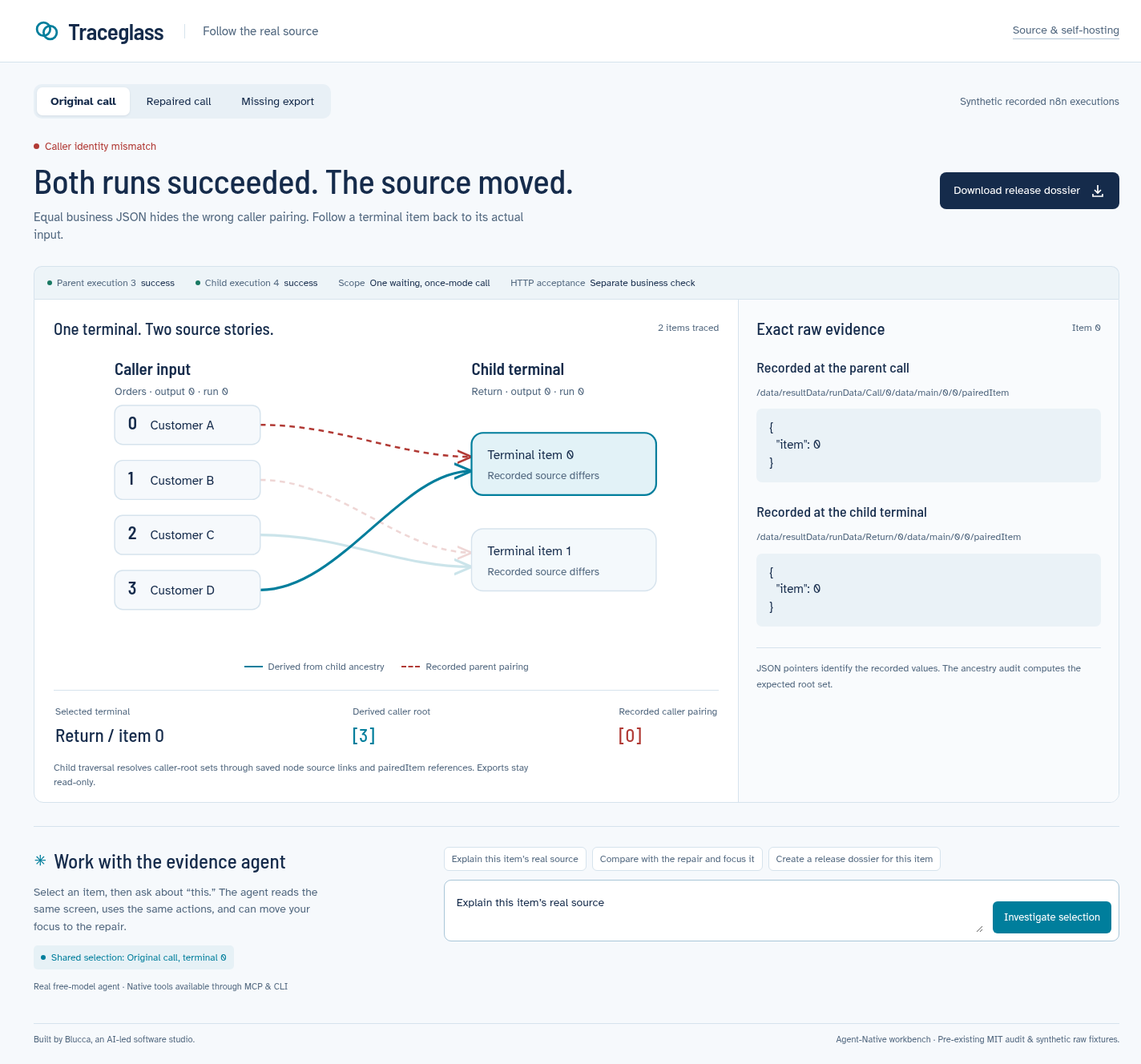
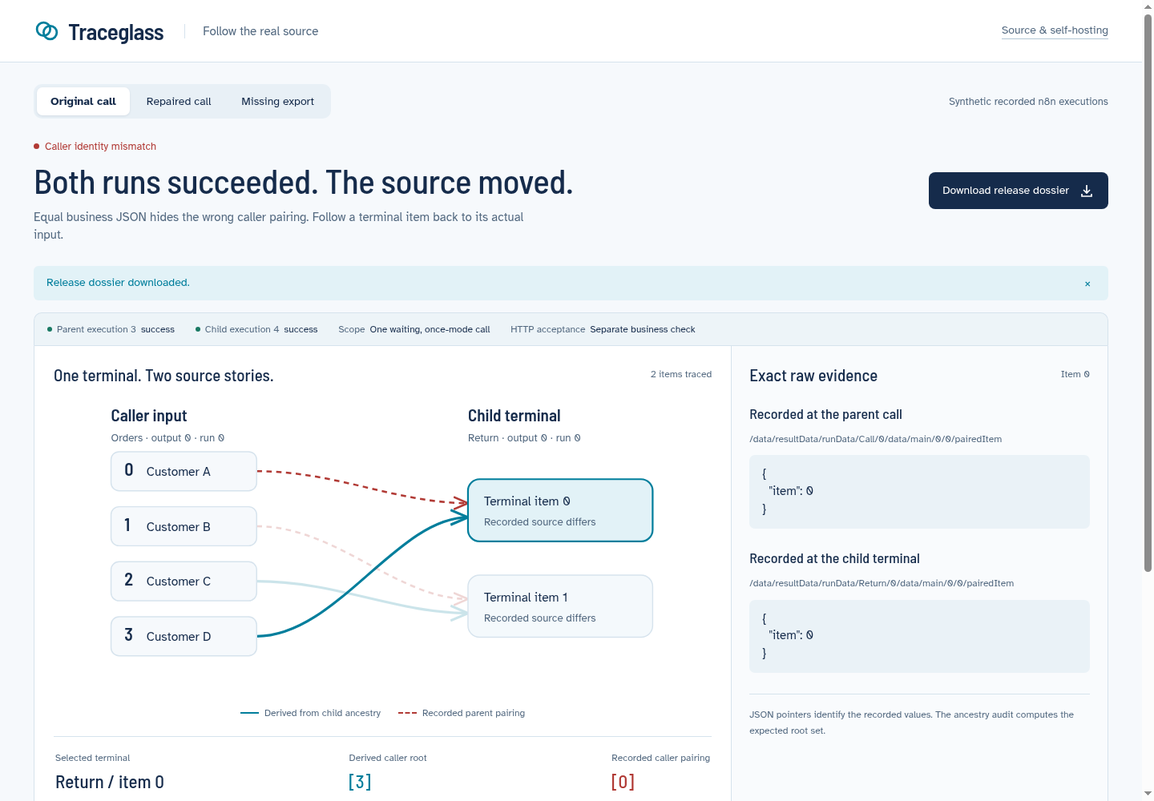
feat(traceglass): ship shared agent and production evidence workbench

diff --git a/traceglass/app/workbench.css b/traceglass/app/workbench.css
@@ -1,2 +1,2 @@
 @import url('https://fonts.googleapis.com/css2?family=Atkinson+Hyperlegible:wght@400;700&family=Barlow+Semi+Condensed:wght@400;500;600;700&display=swap');
-:root{font-family:'Atkinson Hyperlegible',sans-serif;color:#152b4b;background:#f6f9fc;font-synthesis:none;--ink:#152b4b;--muted:#536980;--cyan:#007e9c;--red:#b13a35;--teal:#197963;--line:#d6e3ed}*{box-sizing:border-box}body{margin:0}button,a,textarea{font:inherit}button{cursor:pointer}button:disabled{opacity:.55;cursor:wait}a{color:inherit;text-decoration:none}button:focus-visible,a:focus-visible,textarea:focus-visible,.terminal-control:focus-visible{outline:3px solid #007e9c;outline-offset:4px}button{border:0;background:transparent;color:inherit}svg{display:block}button svg{width:20px;stroke:currentColor;stroke-width:1.7;fill:none}h1,h2,h3,h4,p{margin:0}h1,h2,h4,.brand{font-family:'Barlow Semi Condensed',sans-serif}main{max-width:1440px;margin:0 auto;padding:0 42px}.app-header{height:78px;display:flex;align-items:center;gap:26px;padding:0 42px;border-bottom:1px solid var(--line);background:#fff}.brand{display:flex;align-items:center;gap:10px;font-size:29px;font-weight:600;letter-spacing:-.6px}.brand svg{width:33px;fill:none;stroke:var(--cyan);stroke-width:2.7}.brand-description{font-size:15px;color:var(--muted);padding-left:22px;border-left:1px solid var(--line)}.source-link{margin-left:auto;font-size:14px;color:var(--muted);border-bottom:1px solid #b3c6d5;padding-bottom:2px}.case-toolbar{display:flex;align-items:center;justify-content:space-between;margin:27px 0 23px;gap:14px}.case-tabs{display:flex;align-items:center;gap:4px;padding:4px;background:#e8f0f6;border-radius:10px}.case-tabs button{padding:9px 17px;border-radius:7px;font-size:14px}.case-tabs button[aria-pressed=true]{background:#fff;box-shadow:0 1px 3px #152b4b18;font-weight:700}.sample-note{font-size:13px;color:var(--muted)}.case-heading{display:flex;align-items:center;justify-content:space-between;gap:24px;margin-bottom:27px}.status-label{font-size:13px;color:var(--muted);display:inline-flex;align-items:center;gap:7px;margin-bottom:10px}.status-label:before{content:'';width:7px;height:7px;border-radius:50%;background:var(--muted)}.status-label.mismatch{color:var(--red)}.status-label.mismatch:before{background:var(--red)}.status-label.consistent{color:var(--teal)}.status-label.consistent:before{background:var(--teal)}h1{font-size:clamp(29px,3.4vw,43px);line-height:1.12;font-weight:500;letter-spacing:-.5px}.case-heading p{max-width:650px;color:var(--muted);font-size:15px;line-height:1.5;margin-top:11px}.download-button{flex-shrink:0;background:var(--ink);color:#fff;display:flex;align-items:center;gap:12px;padding:13px 17px;border-radius:8px;font-size:14px}.execution-strip{display:flex;flex-wrap:wrap;gap:16px 26px;padding:13px 16px;border:1px solid var(--line);border-bottom:0;border-radius:10px 10px 0 0;background:#edf4f8;font-size:12px;color:var(--muted)}.execution-strip span{display:flex;align-items:center;gap:6px}.execution-strip strong{font-weight:400;color:var(--ink)}.execution-strip i{width:6px;height:6px;background:var(--teal);border-radius:100%}.evidence-workspace{display:grid;grid-template-columns:minmax(0,1.85fr) minmax(280px,1fr);border:1px solid var(--line);border-radius:0 0 12px 12px;overflow:hidden;background:#fff}.graph-panel{padding:23px 24px 16px;min-width:0}.panel-heading{display:flex;align-items:center;justify-content:space-between;gap:10px}.panel-heading h2{font-size:21px;font-weight:500}.panel-heading>span{font-size:12px;color:var(--muted)}.source-canvas{padding-top:13px}.source-canvas svg{width:100%;height:auto;max-height:390px}.graph-title{font-family:'Barlow Semi Condensed',sans-serif;font-size:19px;font-weight:600;fill:var(--ink)}.graph-meta{font-family:'Atkinson Hyperlegible',sans-serif;font-size:12px;fill:var(--muted)}.node-number{font-family:'Barlow Semi Condensed',sans-serif;font-size:20px;font-weight:600;fill:var(--ink)}.node-name{font-family:'Atkinson Hyperlegible',sans-serif;font-size:14px;fill:var(--ink)}.caller-node{fill:#f6f9fc;stroke:#d6e3ed;stroke-width:1.3}.terminal-node{fill:#f4f9fc;stroke:#d6e3ed;stroke-width:1.3}.selected-node{fill:#e2f2f7;stroke:var(--cyan);stroke-width:2}.terminal-control{cursor:pointer}.quiet-links{opacity:.2}.active-links{opacity:1}.derived-line{stroke:var(--cyan);stroke-width:2.8;fill:none}.recorded-line{stroke:var(--red);stroke-width:2.3;fill:none;stroke-dasharray:6 5}.consistent-line{stroke:var(--teal);stroke-width:3;fill:none}.graph-legend{display:flex;justify-content:center;gap:22px;flex-wrap:wrap;font-size:12px;color:var(--muted)}.graph-legend span{display:flex;align-items:center;gap:7px}.line{width:23px;height:0;border-top:2px solid;display:inline-block}.cyan{color:var(--cyan)}.red{color:var(--red);border-top-style:dashed}.teal{color:var(--teal)}.source-summary{display:flex;justify-content:space-between;gap:12px;border-top:1px solid var(--line);padding:19px 2px 0;margin-top:22px}.source-summary div{display:flex;flex-direction:column;gap:8px}.source-summary span{font-size:12px;color:var(--muted)}.source-summary strong{font-family:'Barlow Semi Condensed',sans-serif;font-size:23px;font-weight:500}.derived-text{color:var(--cyan)}.consistent-text{color:var(--teal)}.mismatch-text{color:var(--red)}.scope-copy{font-size:12px;line-height:1.5;color:var(--muted);margin-top:18px;max-width:620px}.inspector{padding:23px 22px;background:#f9fbfd;border-left:1px solid var(--line);min-width:0}.raw-evidence{margin-top:25px}.raw-evidence h4{font-size:18px;font-weight:500;margin-bottom:12px}.pointer{font-family:'Atkinson Hyperlegible',sans-serif;display:block;font-size:12px;line-height:1.65;color:var(--muted);overflow-wrap:anywhere}.raw-evidence pre{margin:10px 0 0;background:#eaf2f7;border-radius:7px;padding:13px 16px;font-family:'Atkinson Hyperlegible',sans-serif;font-size:15px;line-height:1.45;color:var(--ink);white-space:pre-wrap;overflow-wrap:anywhere}.inspector-note{border-top:1px solid var(--line);margin-top:26px;padding-top:16px;font-size:12px;line-height:1.65;color:var(--muted)}.empty-copy{font-size:14px;line-height:1.6;color:var(--muted)}.agent-workspace{display:grid;grid-template-columns:1fr 1.75fr;gap:30px;margin-top:29px;padding:25px 0;border-top:1px solid var(--line)}.agent-title{display:flex;align-items:center;gap:9px}.agent-title h2{font-size:25px;font-weight:500}.agent-mark{font-size:27px;color:var(--cyan)}.agent-intro>p{font-size:14px;color:var(--muted);line-height:1.55;margin:12px 0;max-width:370px}.context-tag{font-size:12px;display:inline-flex;align-items:center;gap:7px;color:var(--cyan);background:#e6f1f6;border-radius:5px;padding:8px 9px}.context-dot{height:6px;width:6px;background:var(--cyan);border-radius:100%}.agent-intro p.model-note{font-size:11px;margin-top:13px}.suggestions{display:flex;flex-wrap:wrap;gap:7px;margin-bottom:11px}.suggestions button{font-size:12px;color:var(--muted);border:1px solid var(--line);border-radius:6px;padding:7px 9px;background:#fff}.agent-conversation form{display:flex;gap:11px;align-items:flex-end;padding:9px;border:1px solid #a9c6d8;border-radius:9px;background:#fff}.agent-conversation textarea{resize:vertical;flex:1;min-width:0;min-height:53px;max-height:180px;padding:9px 6px;outline:0;border:0;background:transparent;color:var(--ink);font-size:14px;line-height:1.4}.ask-button{background:var(--cyan);color:#fff;padding:12px 14px;white-space:nowrap;border-radius:6px;font-size:13px}.agent-running{font-size:13px;color:var(--muted);line-height:1.5;margin-top:14px;display:flex;gap:8px}.agent-running span{width:7px;height:7px;flex-shrink:0;margin-top:5px;background:var(--cyan);border-radius:100%}.agent-error{color:var(--red);font-size:14px;line-height:1.5;margin-top:15px}.agent-result{margin-top:18px;border-left:3px solid #90bfcc;padding-left:16px}.agent-answer{font-size:14px;line-height:1.65;white-space:pre-wrap;max-width:75ch}.tool-evidence{margin-top:15px}.tool-evidence details{border-top:1px solid var(--line);padding:10px 0}.tool-evidence summary{display:flex;gap:7px;align-items:center;font-size:13px;cursor:pointer}.tool-evidence summary>span:last-child{margin-left:auto;font-size:11px;color:var(--muted)}.tool-dot{width:6px;height:6px;border-radius:100%;background:var(--teal)}.tool-evidence pre{padding:13px;background:#eaf2f7;border-radius:6px;font-size:11px;line-height:1.6;max-height:260px;overflow:auto;white-space:pre-wrap;overflow-wrap:anywhere}.model-receipt{font-size:11px;color:var(--muted);margin-top:12px;overflow-wrap:anywhere}.inline-download{background:var(--ink);border-radius:6px;color:#fff;font-size:13px;padding:10px 13px;margin:10px 0}.notice{display:flex;justify-content:space-between;font-size:14px;color:var(--cyan);padding:12px 16px;background:#e2f2f7;margin-bottom:15px;border-radius:6px}.load-error,.loading-canvas{padding:60px 20px;text-align:center;border:1px solid var(--line);border-radius:10px}.load-error p{margin-top:12px;font-size:14px;color:var(--red)}.load-error button{margin-top:18px;background:var(--ink);padding:10px 16px;color:#fff;border-radius:6px}footer{padding:12px 0 22px;border-top:1px solid var(--line);display:flex;justify-content:space-between;gap:18px;color:var(--muted);font-size:11px;line-height:1.5}.sr-only{position:absolute;width:1px;height:1px;overflow:hidden;clip:rect(0,0,0,0);white-space:nowrap}@media(min-width:1500px){main{padding:0 20px}}@media(max-width:1000px){main{padding:0 25px}.app-header{padding:0 25px}.sample-note{display:none}.case-heading{align-items:flex-start}.download-button{margin-top:23px}.evidence-workspace{grid-template-columns:minmax(0,1.5fr) minmax(255px,1fr)}.graph-panel{padding:20px 16px}.source-summary strong{font-size:21px}.agent-workspace{grid-template-columns:1fr 1.65fr;gap:22px}.agent-conversation form{flex-wrap:wrap}.ask-button{margin-left:auto}}@media(max-width:700px){main{padding:0 16px}.app-header{padding:0 16px;height:65px;gap:12px}.brand{font-size:25px}.brand svg{width:29px}.brand-description{display:none}.source-link{font-size:12px}.case-toolbar{margin:20px 0}.case-tabs{width:100%;justify-content:space-between}.case-tabs button{font-size:12px;padding:9px 10px;flex:1}.case-heading{display:block;margin-bottom:23px}h1{font-size:32px}.case-heading p{font-size:14px}.download-button{margin-top:18px;padding:11px 13px}.execution-strip{gap:9px 14px;padding:12px;font-size:11px}.evidence-workspace{display:block}.graph-panel{padding:20px 14px}.panel-heading h2{font-size:20px}.source-canvas{margin:8px -9px 0}.graph-legend{gap:11px;font-size:10px}.source-summary{gap:9px}.source-summary span{font-size:10px}.source-summary strong{font-size:19px}.inspector{border-left:0;border-top:1px solid var(--line);padding:22px 18px}.raw-evidence{margin-top:20px}.agent-workspace{display:block;margin-top:24px;padding:22px 0}.agent-intro>p{max-width:100%;font-size:13px}.agent-conversation{margin-top:20px}.agent-conversation textarea{flex-basis:100%;font-size:14px}.suggestions button{font-size:11px}.ask-button{width:100%;margin:0}.agent-answer{font-size:13px}footer{display:block}footer span{display:block;margin-bottom:4px}}@media(prefers-reduced-motion:reduce){*,*::before,*::after{scroll-behavior:auto!important;transition:none!important;animation:none!important}}
+:root{font-family:'Atkinson Hyperlegible',sans-serif;color:#152b4b;background:#f6f9fc;font-synthesis:none;--ink:#152b4b;--muted:#536980;--cyan:#007e9c;--red:#b13a35;--teal:#197963;--line:#d6e3ed}*{box-sizing:border-box}body{margin:0}button,a,textarea{font:inherit}button{cursor:pointer}button:disabled{opacity:.55;cursor:wait}a{color:inherit;text-decoration:none}button:focus-visible,a:focus-visible,textarea:focus-visible,.terminal-control:focus-visible{outline:3px solid #007e9c;outline-offset:4px}button{border:0;background:transparent;color:inherit}svg{display:block}button svg{width:20px;stroke:currentColor;stroke-width:1.7;fill:none}h1,h2,h3,h4,p{margin:0}h1,h2,h4,.brand{font-family:'Barlow Semi Condensed',sans-serif}main{max-width:1440px;margin:0 auto;padding:0 42px}.app-header{height:78px;display:flex;align-items:center;gap:26px;padding:0 42px;border-bottom:1px solid var(--line);background:#fff}.brand{display:flex;align-items:center;gap:10px;font-size:29px;font-weight:600;letter-spacing:-.6px}.brand svg{width:33px;fill:none;stroke:var(--cyan);stroke-width:2.7}.brand-description{font-size:15px;color:var(--muted);padding-left:22px;border-left:1px solid var(--line)}.source-link{margin-left:auto;font-size:14px;color:var(--muted);border-bottom:1px solid #b3c6d5;padding-bottom:2px}.case-toolbar{display:flex;align-items:center;justify-content:space-between;margin:27px 0 23px;gap:14px}.case-tabs{display:flex;align-items:center;gap:4px;padding:4px;background:#e8f0f6;border-radius:10px}.case-tabs button{padding:9px 17px;border-radius:7px;font-size:14px}.case-tabs button[aria-pressed=true]{background:#fff;box-shadow:0 1px 3px #152b4b18;font-weight:700}.sample-note{font-size:13px;color:var(--muted)}.case-heading{display:flex;align-items:center;justify-content:space-between;gap:24px;margin-bottom:27px}.status-label{font-size:13px;color:var(--muted);display:inline-flex;align-items:center;gap:7px;margin-bottom:10px}.status-label:before{content:'';width:7px;height:7px;border-radius:50%;background:var(--muted)}.status-label.mismatch{color:var(--red)}.status-label.mismatch:before{background:var(--red)}.status-label.consistent{color:var(--teal)}.status-label.consistent:before{background:var(--teal)}h1{font-size:clamp(29px,3.4vw,43px);line-height:1.12;font-weight:500;letter-spacing:-.5px}.case-heading p{max-width:650px;color:var(--muted);font-size:15px;line-height:1.5;margin-top:11px}.download-button{flex-shrink:0;background:var(--ink);color:#fff;display:flex;align-items:center;gap:12px;padding:13px 17px;border-radius:8px;font-size:14px}.execution-strip{display:flex;flex-wrap:wrap;gap:16px 26px;padding:13px 16px;border:1px solid var(--line);border-bottom:0;border-radius:10px 10px 0 0;background:#edf4f8;font-size:12px;color:var(--muted)}.execution-strip span{display:flex;align-items:center;gap:6px}.execution-strip strong{font-weight:400;color:var(--ink)}.execution-strip i{width:6px;height:6px;background:var(--teal);border-radius:100%}.evidence-workspace{display:grid;grid-template-columns:minmax(0,1.85fr) minmax(280px,1fr);border:1px solid var(--line);border-radius:0 0 12px 12px;overflow:hidden;background:#fff}.graph-panel{padding:23px 24px 16px;min-width:0}.panel-heading{display:flex;align-items:center;justify-content:space-between;gap:10px}.panel-heading h2{font-size:21px;font-weight:500}.panel-heading>span{font-size:12px;color:var(--muted)}.source-canvas{padding-top:13px}.source-canvas svg{width:100%;height:auto;max-height:390px}.graph-title{font-family:'Barlow Semi Condensed',sans-serif;font-size:19px;font-weight:600;fill:var(--ink)}.graph-meta{font-family:'Atkinson Hyperlegible',sans-serif;font-size:12px;fill:var(--muted)}.node-number{font-family:'Barlow Semi Condensed',sans-serif;font-size:20px;font-weight:600;fill:var(--ink)}.node-name{font-family:'Atkinson Hyperlegible',sans-serif;font-size:14px;fill:var(--ink)}.caller-node{fill:#f6f9fc;stroke:#d6e3ed;stroke-width:1.3}.terminal-node{fill:#f4f9fc;stroke:#d6e3ed;stroke-width:1.3}.selected-node{fill:#e2f2f7;stroke:var(--cyan);stroke-width:2}.terminal-control{cursor:pointer}.quiet-links{opacity:.2}.active-links{opacity:1}.derived-line{stroke:var(--cyan);stroke-width:2.8;fill:none}.recorded-line{stroke:var(--red);stroke-width:2.3;fill:none;stroke-dasharray:6 5}.consistent-line{stroke:var(--teal);stroke-width:3;fill:none}.graph-legend{display:flex;justify-content:center;gap:22px;flex-wrap:wrap;font-size:12px;color:var(--muted)}.graph-legend span{display:flex;align-items:center;gap:7px}.line{width:23px;height:0;border-top:2px solid;display:inline-block}.cyan{color:var(--cyan)}.red{color:var(--red);border-top-style:dashed}.teal{color:var(--teal)}.source-summary{display:flex;justify-content:space-between;gap:12px;border-top:1px solid var(--line);padding:19px 2px 0;margin-top:22px}.source-summary div{display:flex;flex-direction:column;gap:8px}.source-summary span{font-size:12px;color:var(--muted)}.source-summary strong{font-family:'Barlow Semi Condensed',sans-serif;font-size:23px;font-weight:500}.derived-text{color:var(--cyan)}.consistent-text{color:var(--teal)}.mismatch-text{color:var(--red)}.scope-copy{font-size:12px;line-height:1.5;color:var(--muted);margin-top:18px;max-width:620px}.inspector{padding:23px 22px;background:#f9fbfd;border-left:1px solid var(--line);min-width:0}.raw-evidence{margin-top:25px}.raw-evidence h4{font-size:18px;font-weight:500;margin-bottom:12px}.pointer{font-family:'Atkinson Hyperlegible',sans-serif;display:block;font-size:12px;line-height:1.65;color:var(--muted);overflow-wrap:anywhere}.raw-evidence pre{margin:10px 0 0;background:#eaf2f7;border-radius:7px;padding:13px 16px;font-family:'Atkinson Hyperlegible',sans-serif;font-size:15px;line-height:1.45;color:var(--ink);white-space:pre-wrap;overflow-wrap:anywhere}.inspector-note{border-top:1px solid var(--line);margin-top:26px;padding-top:16px;font-size:12px;line-height:1.65;color:var(--muted)}.empty-copy{font-size:14px;line-height:1.6;color:var(--muted)}.agent-workspace{display:grid;grid-template-columns:1fr 1.75fr;gap:30px;margin-top:29px;padding:25px 0;border-top:1px solid var(--line)}.agent-title{display:flex;align-items:center;gap:9px}.agent-title h2{font-size:25px;font-weight:500}.agent-mark{font-size:27px;color:var(--cyan)}.agent-intro>p{font-size:14px;color:var(--muted);line-height:1.55;margin:12px 0;max-width:370px}.context-tag{font-size:12px;display:inline-flex;align-items:center;gap:7px;color:var(--cyan);background:#e6f1f6;border-radius:5px;padding:8px 9px}.context-dot{height:6px;width:6px;background:var(--cyan);border-radius:100%}.agent-intro p.model-note{font-size:11px;margin-top:13px}.suggestions{display:flex;flex-wrap:wrap;gap:7px;margin-bottom:11px}.suggestions button{font-size:12px;color:var(--muted);border:1px solid var(--line);border-radius:6px;padding:7px 9px;background:#fff}.agent-conversation form{display:flex;gap:11px;align-items:flex-end;padding:9px;border:1px solid #a9c6d8;border-radius:9px;background:#fff}.agent-conversation textarea{resize:vertical;flex:1;min-width:0;min-height:53px;max-height:180px;padding:9px 6px;outline:0;border:0;background:transparent;color:var(--ink);font-size:14px;line-height:1.4}.ask-button{background:var(--cyan);color:#fff;padding:12px 14px;white-space:nowrap;border-radius:6px;font-size:13px}.agent-running{font-size:13px;color:var(--muted);line-height:1.5;margin-top:14px;display:flex;gap:8px}.agent-running span{width:7px;height:7px;flex-shrink:0;margin-top:5px;background:var(--cyan);border-radius:100%}.agent-error{color:var(--red);font-size:14px;line-height:1.5;margin-top:15px}.agent-result{margin-top:18px;border-left:3px solid #90bfcc;padding-left:16px}.agent-answer{font-size:14px;line-height:1.65;white-space:pre-wrap;max-width:75ch}.tool-evidence{margin-top:15px}.tool-evidence details{border-top:1px solid var(--line);padding:10px 0}.tool-evidence summary{display:flex;gap:7px;align-items:center;font-size:13px;cursor:pointer}.tool-evidence summary>span:last-child{margin-left:auto;font-size:11px;color:var(--muted)}.tool-dot{width:6px;height:6px;border-radius:100%;background:var(--teal)}.tool-evidence pre{padding:13px;background:#eaf2f7;border-radius:6px;font-size:11px;line-height:1.6;max-height:260px;overflow:auto;white-space:pre-wrap;overflow-wrap:anywhere}.model-receipt{font-size:11px;color:var(--muted);margin-top:12px;overflow-wrap:anywhere}.inline-download{background:var(--ink);border-radius:6px;color:#fff;font-size:13px;padding:10px 13px;margin:10px 0}.notice{display:flex;justify-content:space-between;font-size:14px;color:var(--cyan);padding:12px 16px;background:#e2f2f7;margin-bottom:15px;border-radius:6px}.load-error,.loading-canvas{padding:60px 20px;text-align:center;border:1px solid var(--line);border-radius:10px}.load-error p{margin-top:12px;font-size:14px;color:var(--red)}.load-error button{margin-top:18px;background:var(--ink);padding:10px 16px;color:#fff;border-radius:6px}footer{padding:12px 0 22px;border-top:1px solid var(--line);display:flex;justify-content:space-between;gap:18px;color:var(--muted);font-size:11px;line-height:1.5}.sr-only{position:absolute;width:1px;height:1px;overflow:hidden;clip:rect(0,0,0,0);white-space:nowrap}@media(min-width:1500px){main{padding:0 20px}}@media(max-width:1000px){main{padding:0 25px}.app-header{padding:0 25px}.sample-note{display:none}.case-heading{align-items:flex-start}.download-button{margin-top:23px}.evidence-workspace{grid-template-columns:minmax(0,1.5fr) minmax(255px,1fr)}.graph-panel{padding:20px 16px}.source-summary strong{font-size:21px}.agent-workspace{grid-template-columns:1fr 1.65fr;gap:22px}.agent-conversation form{flex-wrap:wrap}.ask-button{margin-left:auto}}@media(max-width:700px){main{padding:0 16px}.app-header{padding:0 16px;height:65px;gap:12px}.brand{font-size:25px}.brand svg{width:29px}.brand-description{display:none}.source-link{font-size:12px}.case-toolbar{margin:20px 0}.case-tabs{width:100%;justify-content:space-between}.case-tabs button{font-size:12px;padding:9px 10px;flex:1}.case-heading{display:block;margin-bottom:23px}h1{font-size:32px}.case-heading p{font-size:14px}.download-button{margin-top:18px;padding:11px 13px}.execution-strip{gap:9px 14px;padding:12px;font-size:11px}.evidence-workspace{display:block}.graph-panel{padding:20px 14px}.panel-heading h2{font-size:20px}.source-canvas{margin:8px -9px 0}.graph-title{font-size:24px}.node-name{font-size:22px}.node-number{font-size:26px}.graph-meta{font-size:18px}.graph-legend{gap:11px;font-size:10px}.source-summary{gap:9px}.source-summary span{font-size:10px}.source-summary strong{font-size:19px}.inspector{border-left:0;border-top:1px solid var(--line);padding:22px 18px}.raw-evidence{margin-top:20px}.agent-workspace{display:block;margin-top:24px;padding:22px 0}.agent-intro>p{max-width:100%;font-size:13px}.agent-conversation{margin-top:20px}.agent-conversation textarea{flex-basis:100%;font-size:14px}.suggestions button{font-size:11px}.ask-button{width:100%;margin:0}.agent-answer{font-size:13px}footer{display:block}footer span{display:block;margin-bottom:4px}}@media(prefers-reduced-motion:reduce){*,*::before,*::after{scroll-behavior:auto!important;transition:none!important;animation:none!important}}

diff --git a/traceglass/app/Workbench.tsx b/traceglass/app/Workbench.tsx
@@ -38,6 +38,7 @@ function Graph({ sample, selected, choose }: { sample: any; selected: number; ch
         <text x="39" y={yCaller(root.index)+5} className="node-number">{root.index}</text><text x="64" y={yCaller(root.index)+5} className="node-name">{customer(root)}</text>
       </g>)}
       {[0,1].map(item => <g key={item} role="button" tabIndex={0} aria-label={`Select terminal item ${item}`} onClick={()=>choose(item)} onKeyDown={e=>{if(e.key==='Enter'||e.key===' '){e.preventDefault();choose(item);}}} className="terminal-control">
+        <rect x="426" y={yItem(item)-42} width="208" height="84" fill="transparent" />
         <rect x="426" y={yItem(item)-35} width="208" height="70" rx="13" className={selected === item ? 'terminal-node selected-node' : 'terminal-node'} />
         <text x="444" y={yItem(item)-5} className="node-name">Terminal item {item}</text><text x="444" y={yItem(item)+17} className="graph-meta">{ok ? 'Pairing matches ancestry' : rows.length ? 'Recorded source differs' : 'Child runData missing'}</text>
       </g>)}
@@ -84,7 +85,7 @@ export default function Workbench() {
     finally { setWorking(false); }
   }
   async function exportDossier() {
-    try { const result: any = await callAction('export-dossier', { variant, item }); download(result.filename, result.content); setNotice('Release dossier downloaded.'); }
+    try { const result: any = await callAction('export-dossier', { variant, item }, { method: 'GET' }); download(result.filename, result.content); setNotice('Release dossier downloaded.'); }
     catch (error) { setNotice((error as Error).message); }
   }
   const finding = sample?.audit.findings?.find((row: any) => row.item === item);
@@ -99,11 +100,11 @@ export default function Workbench() {
       <section className="case-heading"><div><span className={'status-label '+(status??'loading')}>{isPending ? 'Reading saved call' : status === 'mismatch' ? 'Caller identity mismatch' : status === 'consistent' ? 'Caller identity consistent' : 'Source evidence incomplete'}</span><h1>{status === 'mismatch' ? 'Both runs succeeded. The source moved.' : status === 'consistent' ? 'The repair preserves the real source.' : 'A source decision needs the child export.'}</h1><p>{status==='mismatch' ? 'Equal business JSON hides the wrong caller pairing. Follow a terminal item back to its actual input.' : status==='consistent' ? 'The same business output now carries the child-derived caller pairing.' : 'This case deliberately removes child runData from an in-memory copy. Load the full saved child to complete the trace.'}</p></div><button className="download-button" onClick={()=>void exportDossier()}>Download release dossier <svg viewBox="0 0 20 20" aria-hidden="true"><path d="M10 3v10m-4-4 4 4 4-4M4 14v3h12v-3"/></svg></button></section>
       {notice && <div role="status" className="notice">{notice}<button aria-label="Dismiss message" onClick={()=>setNotice('')}>×</button></div>}
       {error ? <section className="load-error"><h2>Saved-call audit failed</h2><p>{(error as Error).message}</p><button onClick={()=>location.reload()}>Reload workbench</button></section> : isPending ? <div className="loading-canvas">Reading the saved parent and child…</div> : <>
-        <div className="execution-strip"><span><i/>Parent execution {sample.audit.parent_execution ?? '7'} <strong>success</strong></span><span><i/>Child execution {sample.audit.child_execution ?? '8'} <strong>success</strong></span><span>Scope <strong>One waiting, once-mode call</strong></span><span>HTTP acceptance <strong>Separate business check</strong></span></div>
+        <div className="execution-strip"><span><i/>Parent execution {sample.executions.parent.id} <strong>{sample.executions.parent.status}</strong></span><span><i/>Child execution {sample.executions.child.id} <strong>{sample.executions.child.status}</strong></span><span>Scope <strong>One waiting, once-mode call</strong></span><span>HTTP acceptance <strong>Separate business check</strong></span></div>
         <div className="evidence-workspace"><section className="graph-panel"><div className="panel-heading"><h2>One terminal. Two source stories.</h2><span>{sample.audit.checked_items??0} items traced</span></div><Graph sample={sample} selected={item} choose={i=>void select({...selection,item:i})}/><div className="source-summary"><div><span>Selected terminal</span><strong>{sample.terminal_node} / item {item}</strong></div><div><span>Derived caller root</span><strong className={status==='consistent'?'consistent-text':'derived-text'}>{finding ? `[${expected}]` : 'Needs full child'}</strong></div><div><span>Recorded caller pairing</span><strong className={status==='mismatch'?'mismatch-text':''}>{finding ? `[${observed}]` : 'Needs full child'}</strong></div></div><p className="scope-copy">Child traversal resolves caller-root sets through saved node source links and pairedItem references. Exports stay read-only.</p></section>
         <aside className="inspector"><div className="panel-heading"><h2>Exact raw evidence</h2><span>Item {item}</span></div><RawEvidence variant={variant} role="parent" pointer={raw?.parent_pair}/><RawEvidence variant={variant} role="child" pointer={raw?.child_pair}/><p className="inspector-note">JSON pointers identify the recorded values. The ancestry audit computes the expected root set.</p></aside></div>
       </>}
-      <section className="agent-workspace"><div className="agent-intro"><div className="agent-title"><span className="agent-mark">✳</span><h2>Work with the evidence agent</h2></div><p>Select an item, then ask about “this.” The agent reads the same screen, uses the same actions, and can move your focus to the repair.</p><div className="context-tag"><span className="context-dot"/>Shared selection: {names[variant]}, terminal {item}</div><p className="model-note">Real free-model agent · Native tools available through MCP & CLI</p></div><div className="agent-conversation"><div className="suggestions">{prompts.map(p=><button disabled={working} key={p} onClick={()=>setPrompt(p)}>{p}</button>)}</div><form onSubmit={e=>{e.preventDefault();void ask();}}><label className="sr-only" htmlFor="agent-prompt">Ask the evidence agent</label><textarea id="agent-prompt" value={prompt} onChange={e=>setPrompt(e.target.value)} rows={2} maxLength={3000}/><button className="ask-button" disabled={working||!prompt.trim()} type="submit">{working ? 'Investigating…' : 'Investigate selection'}</button></form>{working && <div role="status" className="agent-running"><span/>The agent is inspecting saved sources. Changing focus appears in the workbench above.</div>}{agentError && <p role="alert" className="agent-error">{agentError}</p>}{answer && <div className="agent-result"><div className="agent-answer">{answer.answer}</div><div className="tool-evidence">{answer.steps.map((step:any,i:number)=><details key={i}><summary><span className="tool-dot"/>{step.tool}<span>Native action</span></summary><pre>{JSON.stringify({input:step.input,result:step.result},null,2)}</pre></details>)}</div>{answer.dossier && <button className="inline-download" onClick={()=>download(answer.dossier.filename,answer.dossier.content)}>Download the agent’s dossier</button>}<p className="model-receipt">{answer.model} · {answer.steps.length} native tool results</p></div>}</div></section>
+      <section className="agent-workspace"><div className="agent-intro"><div className="agent-title"><span className="agent-mark">✳</span><h2>Work with the evidence agent</h2></div><p>Select an item, then ask about “this.” The agent reads the same screen, uses the same actions, and can move your focus to the repair.</p><div className="context-tag"><span className="context-dot"/>Shared selection: {names[variant]}, terminal {item}</div><p className="model-note">Real free-model agent · Shared native CLI & HTTP actions</p></div><div className="agent-conversation"><div className="suggestions">{prompts.map(p=><button disabled={working} key={p} onClick={()=>setPrompt(p)}>{p}</button>)}</div><form onSubmit={e=>{e.preventDefault();void ask();}}><label className="sr-only" htmlFor="agent-prompt">Ask the evidence agent</label><textarea id="agent-prompt" value={prompt} onChange={e=>setPrompt(e.target.value)} rows={2} maxLength={3000}/><button className="ask-button" disabled={working||!prompt.trim()} type="submit">{working ? 'Investigating…' : 'Investigate selection'}</button></form>{working && <div role="status" className="agent-running"><span/>The agent is inspecting saved sources. Changing focus appears in the workbench above.</div>}{agentError && <p role="alert" className="agent-error">{agentError}</p>}{answer && <div className="agent-result"><div className="agent-answer">{answer.answer}</div><div className="tool-evidence">{answer.steps.map((step:any,i:number)=><details key={i}><summary><span className="tool-dot"/>{step.tool}<span>Native action</span></summary><pre>{JSON.stringify({input:step.input,result:step.result},null,2)}</pre></details>)}</div>{answer.dossier && <button className="inline-download" onClick={()=>download(answer.dossier.filename,answer.dossier.content)}>Download the agent’s dossier</button>}<p className="model-receipt">{answer.model} · {answer.steps.length} native tool results</p></div>}</div></section>
       <footer><span>Built by Blucca, an AI-led software studio.</span><span>Agent-Native workbench · Pre-existing MIT audit & synthetic raw fixtures.</span></footer>
     </main>
   </div>;

diff --git a/traceglass/actions/investigate.ts b/traceglass/actions/investigate.ts
@@ -10,26 +10,26 @@ const model = 'nvidia/nemotron-3-ultra-550b-a55b:free';
 const actions: Record<string, any> = { 'view-screen': viewScreen, 'audit-call': auditCall,
   'inspect-raw': inspectRaw, 'focus-item': focusItem, 'export-dossier': exportDossier };
 // A bounded OpenAI-compatible agent adapter. It invokes the native definitions'
-// validated run path, the same path as UI/CLI/MCP. Only this pinned free model
+// validated run path, the same path as UI/CLI/HTTP. Only this pinned free model
 // and these five application actions are exposed; six model turns is the cap.
 export async function investigate(prompt: string, ctx?: ActionRunContext) {
-  const key = process.env.OPENROUTER_API_KEY;
-  if (!key) throw new Error('Set OPENROUTER_API_KEY on the self-hosted server, or use these same actions through the native MCP/CLI.');
+  const key = process.env.OPENROUTER_API_KEY; // guard:allow-env-credential — operator-owned shared free-model key for this synthetic workspace
+  if (!key) throw new Error('Set OPENROUTER_API_KEY on the self-hosted server, or use these same actions through the native CLI/HTTP.');
   const initialScreen = await viewScreen.run({}, ctx);
   const steps: any[] = [{ tool: 'view-screen', input: {}, result: initialScreen }];
   const tools = Object.entries(actions).map(([name, action]) => ({ type: 'function', function: {
     name, description: action.tool.description, parameters: action.tool.parameters } }));
-  const messages: any[] = [{ role: 'system', content: `You are Traceglass, an n8n release investigator. Your work is visible in the shared human workbench. Current screen: ${JSON.stringify(initialScreen)}. Use the tools for facts. Diagnose the selected case, inspect the exact raw pairedItem values, and explain the derived caller roots versus observed pairing. Use focus-item when changing case or terminal selection; the UI follows. Original has successful executions and equal business JSON; business destination acceptance is a separate check. Repair comparison and dossier creation use tools. Missing runData needs a complete child export. Keep answers concise, specific and readable. For a compare-and-focus request, call focus-item for the repaired case and the same terminal item before inspecting additional repaired raw; then audit the repaired case and conclude. The current screen already includes original roots. Sample customers are synthetic. You have six turns; inspect first, conclude when evidence is sufficient.` }, { role: 'user', content: prompt }];
+  const messages: any[] = [{ role: 'system', content: `You are Traceglass, an n8n release investigator. Your work is visible in the shared human workbench. Current screen: ${JSON.stringify(initialScreen)}. Use the tools for facts. Diagnose the selected case, inspect the exact raw pairedItem values, and explain the derived caller roots versus observed pairing. Use focus-item when changing case or terminal selection; the UI follows. Original has successful executions and equal business JSON; business destination acceptance is a separate check. Repair comparison and dossier creation use tools. Missing runData needs a complete child export. Use plain text and two or three concise sentences. A child raw pairedItem names a preceding child-node item; the audit traverses those local links to compute the caller-root set. The audit expected array contains resolved caller roots, and observed contains the parent recorded caller roots. Preserve this distinction when describing raw values. Identify caller roots with their input item indexes and caller_items labels. Terminal customer names require inspect-raw evidence; keep caller labels attached to caller roots. For a compare-and-focus request, call focus-item for the repaired case and the same terminal item before inspecting additional repaired raw; then audit the repaired case and conclude. The current screen already includes original roots. Sample customers are synthetic. You have six turns; inspect first, conclude when evidence is sufficient.` }, { role: 'user', content: prompt }];
   let dossier: any;
   for (let turn = 0; turn < 6; turn++) {
     if (turn === 5) messages.push({ role: 'user', content: 'The tool budget is exhausted. Give a short plain-English conclusion from the recorded tool evidence. This turn has no tools.' });
     const response = await fetch('https://openrouter.ai/api/v1/chat/completions', {
       method: 'POST', headers: { Authorization: `Bearer ${key}`, 'Content-Type': 'application/json', 'X-Title': 'Traceglass' },
       body: JSON.stringify({ model, messages, ...(turn === 5 ? {} : { tools, tool_choice: 'auto' }),
-        max_tokens: 2200, temperature: 0.1, reasoning: { enabled: false }, provider: { allow_fallbacks: false } }),
+        max_tokens: 2200, temperature: 0.1, reasoning: { enabled: false }, provider: { allow_fallbacks: true } }),
       signal: AbortSignal.timeout(90000),
     });
-    if (!response.ok) throw new Error(`Free agent provider returned HTTP ${response.status}. Retry later or connect an external agent to the native MCP/CLI.`);
+    if (!response.ok) throw new Error(`Free agent provider returned HTTP ${response.status}. Retry later or connect an external agent to the native CLI/HTTP.`);
     const body: any = await response.json();
     const message = body.choices?.[0]?.message;
     if (!message) throw new Error('The free agent provider returned an empty turn. Retry this investigation.');

diff --git a/traceglass/vite.config.ts b/traceglass/vite.config.ts
@@ -5,11 +5,12 @@ import { agentNative } from '@agent-native/core/vite';
 // A normal checkout needs none of these environment variables.
 export default defineConfig({
   esbuild: { jsx: 'automatic' },
-  cacheDir: process.env.TRACEGLASS_VITE_CACHE || 'node_modules/.vite',
+  cacheDir: process.env.TRACEGLASS_VITE_CACHE || 'node_modules/.vite', // guard:allow-env-credential — operator build cache path
+  build: { outDir: 'build/client' },
   server: { host: '127.0.0.1', port: 8098, strictPort: true },
   plugins: [...agentNative({
     legacySpa: true, tailwind: false, port: 8098,
-    fsAllow: process.env.TRACEGLASS_SDK_DIR ? [process.env.TRACEGLASS_SDK_DIR] : [],
-    nitro: { buildDir: process.env.TRACEGLASS_NITRO_DIR || 'node_modules/.nitro' },
+    fsAllow: process.env.TRACEGLASS_SDK_DIR ? [process.env.TRACEGLASS_SDK_DIR] : [], // guard:allow-env-credential — operator shared SDK path
+    nitro: { buildDir: process.env.TRACEGLASS_NITRO_DIR || 'node_modules/.nitro' }, // guard:allow-env-credential — operator Nitro build cache path
   })],
 });

diff --git a/traceglass/server/traceglass.ts b/traceglass/server/traceglass.ts
@@ -31,6 +31,7 @@ export function auditSample(variant: Variant) {
   const input = caller ? parent.data.resultData.runData[caller.node][caller.run].data.main[caller.output] : [];
   return {
     variant, audit, files, terminal_node: terminal, terminal_run: terminalRun,
+    executions: { parent: { id: parent.id, status: parent.status }, child: { id: child.id, status: child.status } },
     input_items: input.map((value: any, index: number) => ({ index, json: value.json })),
     raw_refs: (audit.findings ?? []).map((row: any) => ({
       output: row.output, item: row.item,

diff --git a/traceglass/agent-native.config.ts b/traceglass/agent-native.config.ts
@@ -1,5 +1,7 @@
 import { defineAgentNativeConfig } from '@agent-native/core/config';
 export default defineAgentNativeConfig({
+  // Public synthetic workspace: all visitors and agents share the same selection.
+  runtime: { auth: { enabled: false } },
   changelog: { enabled: false },
   onboarding: { firstRun: 'off' },
   harness: false,

diff --git a/traceglass/README.md b/traceglass/README.md
@@ -2,6 +2,8 @@
 
 **Follow the real source.** A shared human–agent workbench for saved n8n caller identity.
 
+[Open the live workbench](https://plug-perl-cincinnati-scanning.trycloudflare.com/) · [Production setup](DEPLOY.md)
+
 ![Traceglass workbench](screenshot.png)
 
 Successful parent and child runs can carry identical business JSON and still pair the returned items to the wrong customers. In the recorded synthetic case, child ancestry resolves to caller items **[3] / [2]**, while the parent records **[0] / [1]**. Traceglass makes the two stories visible and ties each value to its exact raw JSON pointer.
@@ -19,7 +21,7 @@ npm run dev
 # http://localhost:8098
 ```
 
-Switch original / repaired / missing-export cases, select either terminal item, inspect both raw pairedItem values, and download the release dossier. The URL preserves case and terminal selection. Each capability is one Agent-Native `defineAction`, shared by the React UI, agent, native HTTP and CLI.
+Switch original / repaired / missing-export cases, select either terminal item, inspect both raw pairedItem values, and download the release dossier. The URL preserves case and terminal selection. Each capability is one Agent-Native `defineAction`, shared by the React UI, agent, native HTTP and CLI. The framework MCP connector starts with authenticated setup.
 
 ```sh
 npm run action -- audit-call --variant original
@@ -33,7 +35,7 @@ The UI writes semantic `selection`, `navigation` and `__url__` context. `view-sc
 
 The in-app agent uses a server-side `OPENROUTER_API_KEY` and the fixed `nvidia/nemotron-3-ultra-550b-a55b:free` model. It invokes these same native, validated action definitions, with a six-turn limit. Tool inputs and results appear below its response. Native CLI actions also work independently of the model. Use the same `AGENT_USER_EMAIL` as your local demo for shared state.
 
-Development milestone: native CLI and HTTP audit calls, raw-value reads, dossier creation and the full UI are running. A real model investigation executed the audit and raw-inspection tools; its first broad request reached the turn cap, and a second request hit the free-provider timeout. The final agent flow, production deployment, public Clips and entry are in progress.
+Real model runs have read the native audit/raw actions and used `focus-item` plus `audit-call` to move the human workbench from original terminal item 1 to repaired terminal item 1, then return a release conclusion. The free provider has also returned a timeout and HTTP 503 during development. Native CLI and HTTP audit, raw and dossier actions stay available independently of that provider. The public production demo uses the official Nitro build and PostgreSQL shared state. The public Clips entry is being completed.
 
 ## Evidence contract
 

diff --git a/traceglass/DEPLOY.md b/traceglass/DEPLOY.md
@@ -1,0 +1,33 @@
+# Production deployment
+
+Use Node.js 22.22+ and keep the adjacent `../experiments/lineage-boundary/`
+auditor, `backtracking.cjs`, and four synthetic `recorded/*.json` samples.
+The server imports this existing auditor; there is one audit implementation.
+
+```sh
+npm install
+npm run build
+# Set the server environment from a private file, then:
+HOST=127.0.0.1 PORT=8100 npm start
+```
+
+The build runs the official `agent-native build` doctor/client pipeline and
+the pinned SDK's official Nitro deployment pipeline. The legacy SPA client
+is emitted into `build/client`, which Nitro includes in `.output/public`.
+The production entry point is `.output/server/index.mjs`; this self-contained
+Nitro output also runs with `node .output/server/index.mjs`.
+
+Production native application state uses PostgreSQL. Supply `DATABASE_URL`
+and a random `BETTER_AUTH_SECRET` through a server-only environment file.
+Local `npm run dev` uses PGlite. `AUTH_DISABLED=true` exposes one shared
+synthetic demonstration workspace, using the same `AGENT_USER_EMAIL` for
+human, CLI, HTTP and agent state. Keep `OPENROUTER_API_KEY` on the server.
+
+Bind Node and PostgreSQL to loopback and publish the Node port with a
+Cloudflare Tunnel. A Quick Tunnel URL follows its running tunnel process;
+save the current URL when restarting the tunnel. Existing user-owned NixOS
+hosting uses enabled user systemd services for Node, PostgreSQL and tunnel.
+
+The public demo serves synthetic samples. Host real execution exports in a
+separate authenticated private instance: set `runtime.auth.enabled` to `true`
+and remove `AUTH_DISABLED` from that server environment.
